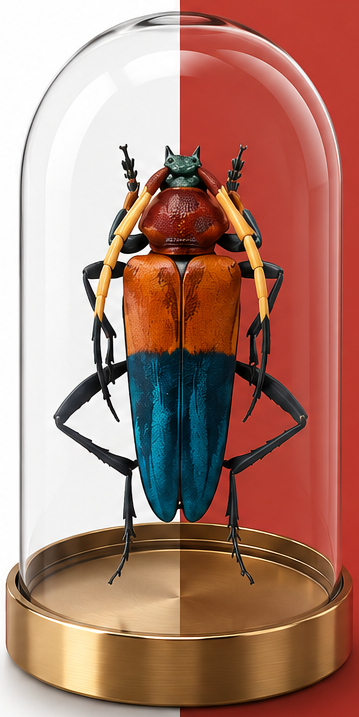
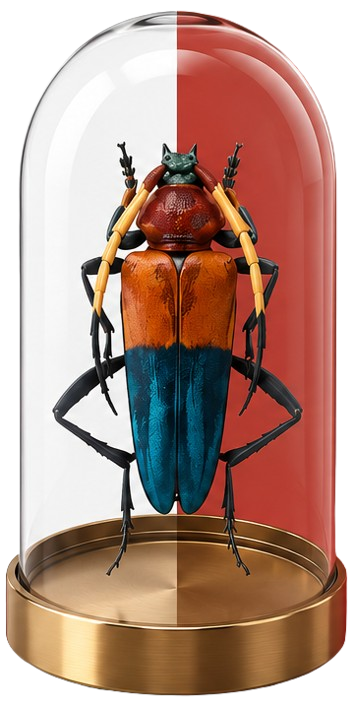
Design completed

diff --git a/css/style.css b/css/style.css
@@ -1,8 +1,7 @@
 :root {
   --white: #fafaf8;
-  --red: #bb3c31;
+  --red: #b6362b;
   --rust-dark: #9c3122;
-  --ink: #1f3a2e;
   --gold: #d9b98a;
   --green: #16342e;
   --gold-light: #e8d3ae;
@@ -17,14 +16,43 @@
   box-sizing: border-box;
 }
 
+html {
+  scroll-behavior: smooth;
+  width: 100%;
+  height: auto;
+}
+
 body {
+  position: relative;
   font-family: "Poppins", sans-serif;
   color: var(--text-dark);
   background: var(--white);
+  width: 100%;
+  min-height: 100vh;
+  overflow-x: hidden;
 }
 
+.bg-split {
+  position: absolute;
+  top: 0;
+  right: 0;
+  background: var(--red);
+  width: 50%;
+  min-height: 100vh;
+  height: 100%;
+  z-index: 0;
+}
+
+header,
+main {
+  position: relative;
+  z-index: 1;
+}
+
+/* Header */
+
 header {
-  padding: 30px 70px 0 70px;
+  padding: 30px 80px 0 60px;
   display: flex;
   justify-content: space-between;
   align-items: center;
@@ -58,27 +86,221 @@ nav ul li a {
   gap: 10px;
   background: #efefef;
   border-radius: 22px;
-  padding: 11px 22px;
+  padding: 12px 22px;
   width: 330px;
   color: #9a9a9a;
   font-size: 14px;
 }
 
 .search i {
-    font-size: 16px;
+  font-size: 16px;
 }
 
-h1{
-    font-family: "League Spartan", sans-serif;
-    color: var(--green);
+.logo h1 {
+  font-family: "League Spartan", sans-serif;
+  color: var(--green);
+  font-size: 36px;
 }
 
-.bg-split {
+/* Main Content */
+
+main {
+    padding: 100px 200px 100px 250px;
+    display: flex;
+    align-items: center;
+    justify-content: space-between;
+}
+
+.vertical-label {
+  position: absolute;
+  left: 80px;
+  top: 230px;
+  font-family: "Cormorant Garamond", serif;
+  font-style: italic;
+  font-weight: 600;
+  font-size: 62px;
+  color: var(--green);
+  transform: rotate(-90deg) translate(-100%, 0);
+  transform-origin: left top;
+  white-space: nowrap;
+}
+
+.clas-item {
+    padding: 13px 30px 13px 0;
+    border-bottom: 1px solid var(--line);
+}
+
+.clas-item:last-child {
+  border-bottom: none;
+}
+
+.clas-item .dot {
+  display: inline-block;
+  width: 6px;
+  height: 6px;
+  border-radius: 50%;
+  background: var(--red);
+  margin-right: 10px;
+  vertical-align: middle;
+}
+
+.clas-item .label {
+  font-weight: 600;
+  font-size: 15px;
+  color: #1a1a1a;
+}
+
+.clas-item .value {
+  display: block;
+  margin-left: 16px;
+  font-size: 15px;
+  color: #3a3a3a;
+  margin-top: 2px;
+}
+
+.center-img {
     position: absolute;
-    top: 0;
-    right: 0;
-    background: var(--red);
-    width: 50%;
+    left: 50%;
+    transform: translateX(-50%);
+    height: 560px;
+    width: 280px;
+}
+
+.center-img img {
+    width: 100%;
     height: 100%;
-    z-index: -1;
+    object-fit: contain;
+}
+
+/* Right Content */
+
+h2 {
+    font-family: "Cormorant Garamond", serif;
+    font-weight: 600;
+    font-size: 64px;
+    line-height: 62px;
+    margin-bottom: 34px;
+    color: var(--white);
+}
+
+.price {
+    font-size: 40px;
+    font-weight: 600;
+    color: var(--gold-light);
+    margin: 15px 0;
+}
+
+.toggle-row {
+    display: flex;
+    align-items: center;
+    gap: 14px;
+    margin-bottom: 16px;
+    font-size: 15px;
+    color: var(--gold-light);
+}
+
+.switch {
+    width: 42px;
+    height: 22px;
+    border-radius: 11px;
+    background: rgba(255,255,255,0.35);
+    position: relative;
+    flex-shrink: 0;
+}
+
+.switch::after {
+    content: '';
+    position: absolute;
+    top: 2px;
+    left: 2px;
+    width: 18px;
+    height: 18px;
+    border-radius: 50%;
+    background: #fff;
+}
+
+.cta {
+    margin-top: 24px;
+    display: inline-block;
+    background: var(--gold-light);
+    color: var(--text-dark);
+    font-family: "Poppins", sans-serif;
+    font-weight: 500;
+    font-size: 15px;
+    padding: 16px 40px;
+    border-radius: 12px;
+    border: none;
+    cursor: pointer;
+    letter-spacing: 0.3px;
+}
+
+.meta-row {
+    display: flex;
+    align-items: center;
+    justify-content: space-between;
+    gap: 80px;
+}
+
+.meta-icon-col {
+    display: flex;
+    flex-direction: column;
+    justify-content: center;
+    align-items: center;
+    gap: 5px;
+    color: var(--gold-light);
+    position: relative;
+}
+
+.meta-icon-col::before {
+    content: "";
+    position: absolute;
+    right: -40px;
+    top: 50%;
+    transform: translateY(-50%);
+    width: 1px;
+    background: var(--line);
+    height: 90%;
+}
+
+.meta-details {
+    display: flex;
+    flex-direction: column;
+    gap: 16px;
+}
+
+.meta-img {
+    height: 85px;
+    width: 58px;
+}
+
+.meta-img img {
+    width: 100%;
+    height: 100%;
+    object-fit: contain;
+}
+
+.meta-icon-col span {
+    font-size: 13px;
+}
+
+.meta-line {
+    display: flex;
+    align-items: center;
+    gap: 12px;
+    color: var(--gold-light);
+}
+
+.meta-line i {
+    color: var(--gold-light);
+    font-size: 22px;
+}
+
+.meta-line .m-label {
+    font-size: 13px;
+    opacity: 0.85;
+}
+
+.meta-line .m-value {
+    font-size: 14px;
+    font-weight: 400;
 }

diff --git a/index.html b/index.html
@@ -37,6 +37,82 @@
             </ul>
         </nav>
     </header>
+
+    <main>
+        <div class="left-sec">
+            <div class="vertical-label">Classification</div>
+
+            <div class="classification">
+                <div class="clas-item"><span class="dot"></span><span class="label">Class:</span><span
+                        class="value">Insecta</span></div>
+                <div class="clas-item"><span class="dot"></span><span class="label">Order:</span><span
+                        class="value">Coleoptera</span></div>
+                <div class="clas-item"><span class="dot"></span><span class="label">Family:</span><span
+                        class="value">Cerambycidae</span></div>
+                <div class="clas-item"><span class="dot"></span><span class="label">Sub-Family:</span><span
+                        class="value">Cerambycinae</span></div>
+                <div class="clas-item"><span class="dot"></span><span class="label">Tribe:</span><span
+                        class="value">Callicromatini</span></div>
+                <div class="clas-item"><span class="dot"></span><span class="label">Genus:</span><span
+                        class="value">Pachyteria</span></div>
+            </div>
+        </div>
+
+        <div class="center-img">
+            <img src="./images/cockroach.png" alt="cockroach-image">
+        </div>
+
+        <div class="right-sec">
+            <div class="info">
+                <div class="info-inner">
+                    <h2>Pachyteria<br>equestris</h2>
+
+                    <div class="meta-row">
+                        <div class="meta-icon-col">
+                            <div class="meta-img">
+                                <img src="./images/cockroach-icon.png" alt="icon">
+                            </div>
+                            <span>32 mm</span>
+                        </div>
+                        <div class="meta-details">
+                            <div class="meta-line">
+                                <i class="ri-map-pin-line"></i>
+                                <div>
+                                    <div class="m-label">Locality:</div>
+                                    <div class="m-value">Malaysia</div>
+                                </div>
+                            </div>
+                            <div class="meta-line">
+                                <i class="ri-men-line"></i>
+                                <div>
+                                    <div class="m-label">Sex:</div>
+                                    <div class="m-value">Male</div>
+                                </div>
+                            </div>
+                            <div class="meta-line">
+                                <i class="ri-ruler-line"></i>
+                                <div>
+                                    <div class="m-label">Size:</div>
+                                    <div class="m-value">32 mm / 12 mm</div>
+                                </div>
+                            </div>
+                        </div>
+                    </div>
+
+                    <div class="price">$5.99</div>
+
+                    <div class="toggle-row">
+                        <div class="switch"></div> View detailed antennae
+                    </div>
+                    <div class="toggle-row">
+                        <div class="switch off"></div> View underside
+                    </div>
+
+                    <button class="cta">Add to collection</button>
+                </div>
+            </div>
+        </div>
+    </main>
 </body>
 
 </html>